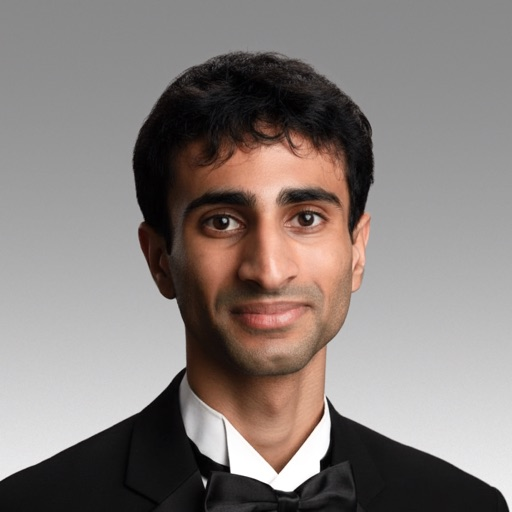
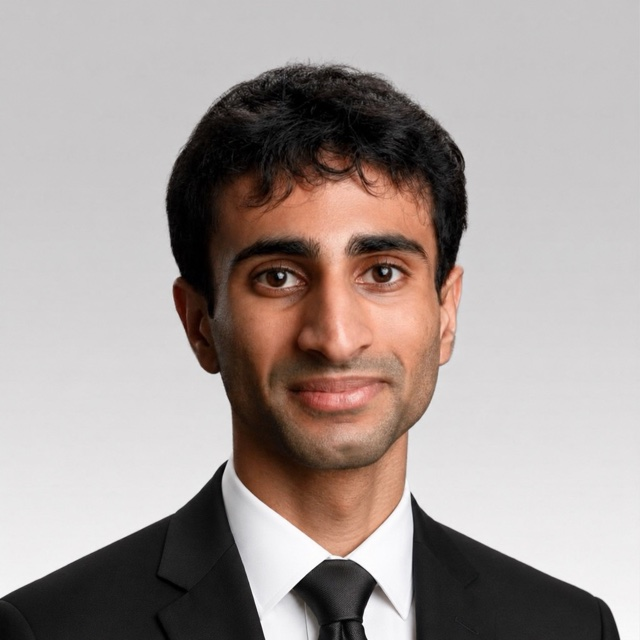
Steady the 3D mark, rebuild the phone menu, new headshot
- The 3D mark sits whole on its disc again, at the size the scene was
  made for, and the page adds no motion of its own to it. The flat mark
  and the scene are never on screen together: a scene that is ready
  quickly eases in on an empty stage, and a slow one gets the flat mark
  first, which leaves before the scene arrives. Cross-fading the two
  read as a double image, because the model is usually mid-turn.
- On touch screens the canvas takes no touches, so it cannot get in the
  way of scrolling.
- The phone menu is a full sheet: large words on a lilac field with one
  purple capsule beneath, in place of a dropdown card. The bar stays
  within reach on phones, and the page is held still while the sheet is
  open.
- The current page is marked with the accent and a small disc, not a
  grey capsule.
- Phones: centred hero, safe-area insets, no tap flash.
- Aniketh's headshot replaced with the new photo.

diff --git a/assets/css/app.css b/assets/css/app.css
@@ -55,6 +55,8 @@
     --r-tile:  26px;
 
     --edge: clamp(14px, 3vw, 36px);
+    --nav-pad: clamp(.6rem, 1.6vw, 1.1rem);
+    --nav-h: 56px;
     --max:  1280px;
     --gap:  clamp(12px, 1.6vw, 20px);
     --pad:  clamp(1.5rem, 5vw, 4.5rem);
@@ -210,15 +212,14 @@ main {
 }
 
 /* ---------- Nav ---------- */
-/* Plain, on the page. The current page takes the app's tab selection:
-   a soft capsule and the accent. */
-.nav { padding-block: clamp(.6rem, 1.6vw, 1.1rem); }
+/* Plain, on the page. The current page is marked the way the app marks
+   things: the accent, and a small disc. */
+.nav { padding-block: var(--nav-pad); }
 .nav-in {
-    position: relative;
     display: flex;
     align-items: center;
     gap: .5rem;
-    min-height: 56px;
+    min-height: var(--nav-h);
 }
 .word {
     display: flex;
@@ -231,28 +232,35 @@ main {
 }
 .word img { width: 34px; height: 34px; }
 
-.links { display: flex; align-items: center; gap: .75rem; }
-.links ul { display: flex; align-items: center; gap: 2px; }
+.links { display: flex; align-items: center; gap: 1.1rem; }
+.links ul { display: flex; align-items: center; gap: .25rem; }
 .links ul a {
+    position: relative;
     display: block;
-    padding: .6rem 1.1rem;
-    border-radius: 999px;
-    font-size: 1.03rem;
+    padding: .65rem .95rem;
+    border-radius: 12px;
+    font-size: 1.05rem;
     font-weight: 600;
-    letter-spacing: -0.012em;
-    transition: background-color .2s ease;
+    letter-spacing: -0.014em;
+    transition: color .2s ease;
 }
-.links ul a:hover { background: var(--raised); }
-.links ul a[aria-current="page"] {
-    background: var(--raised);
-    color: var(--accent);
+.links ul a:hover,
+.links ul a[aria-current="page"] { color: var(--accent); }
+.links ul a[aria-current="page"]::after {
+    content: "";
+    position: absolute;
+    left: 50%; bottom: .1rem;
+    width: 6px; height: 6px;
+    margin-left: -3px;
+    border-radius: 50%;
+    background: var(--accent);
 }
 
 .tog {
     display: none;
     align-content: center;
-    gap: 5px;
-    width: 46px; height: 46px;
+    gap: 6px;
+    width: 48px; height: 48px;
     flex: none;
     padding: 0 13px;
     border-radius: 50%;
@@ -261,14 +269,14 @@ main {
 .tog i {
     display: block;
     width: 100%;
-    height: 2px;
+    height: 2.5px;
     border-radius: 2px;
     background: currentColor;
-    transition: transform .28s ease, opacity .28s ease;
+    transition: transform .3s var(--ease), opacity .2s ease;
 }
-.tog[aria-expanded="true"] i:nth-child(1) { transform: translateY(7px) rotate(45deg); }
-.tog[aria-expanded="true"] i:nth-child(2) { opacity: 0; }
-.tog[aria-expanded="true"] i:nth-child(3) { transform: translateY(-7px) rotate(-45deg); }
+/* Two bars, which cross to close. */
+.tog[aria-expanded="true"] i:nth-child(1) { transform: translateY(4.25px) rotate(45deg); }
+.tog[aria-expanded="true"] i:nth-child(2) { transform: translateY(-4.25px) rotate(-45deg); }
 
 /* ---------- Field ---------- */
 /* A soft ground in one of the mark's colours, clipped to a generous
@@ -358,21 +366,24 @@ main {
     position: absolute;
     inset: 6%;
 }
-/* The scene moves on its own, following the pointer. Nothing is added to
-   that here: it only eases in once it has painted. */
+/* The scene moves on its own, turning to follow the pointer. Nothing is
+   added to that here: it only eases in once it has painted. */
 .mark spline-viewer {
     position: absolute;
     inset: 0;
     width: 100%; height: 100%;
     opacity: 0;
-    scale: .97;
+    scale: .96;
     transition: opacity .6s ease, scale .9s var(--ease);
 }
 .mark.live spline-viewer { opacity: 1; scale: 1; }
-/* The flat mark holds the place until then, and stays if the scene never
-   arrives. It is sized and placed to sit exactly where the scene's model
-   does, so one hands over to the other without a jump; it lingers a
-   moment as the scene fades in beneath it. */
+
+/* The flat mark is the stand-in: what shows without script, and what
+   the script brings in if the scene is slow or never arrives. The two
+   are never on screen together. The scene's model is usually mid-turn
+   when it appears, so a cross-fade between them reads as a double
+   image; instead the flat mark leaves first and the scene follows.
+   It is sized and placed to sit where the model rests. */
 .mark-still {
     position: absolute;
     z-index: 1;
@@ -380,9 +391,12 @@ main {
     width: 88%; height: auto;
     translate: -50% -50%;
     pointer-events: none;
-    transition: opacity .45s ease .25s;
+    transition: opacity .25s ease;
 }
-.mark.live .mark-still { opacity: 0; }
+html.js .mark-still { opacity: 0; }
+html.js .mark.fallback .mark-still { opacity: 1; transition-duration: .5s; }
+html.js .mark.live .mark-still { opacity: 0; transition-duration: .25s; }
+.mark.fallback.live spline-viewer { transition-delay: .25s; }
 /* On a touch screen the scene has no pointer to follow, and a canvas
    that takes touches would get in the way of scrolling the page. */
 @media (hover: none) {
@@ -810,6 +824,7 @@ html.js .up.seen .dot, html.js .up.seen .dot-soft { scale: 1; opacity: 1; }
     html.js .up { opacity: 1; translate: 0 0; }
     html.js .up .arc { stroke-dasharray: var(--p, 0) 100; }
     html.js .up .dot, html.js .up .dot-soft { scale: 1; opacity: 1; }
+    .links li { opacity: 1; translate: 0 0; }
     .press a:hover img, .press a:focus-visible img,
     .btn:active, .round:active { scale: 1; }
     .btn:hover svg, .link:hover svg { translate: 0 0; }
@@ -862,35 +877,100 @@ html.js .up.seen .dot, html.js .up.seen .dot-soft { scale: 1; opacity: 1; }
 
     .roster { grid-template-columns: 1fr; }
 
+    /* The bar stays within reach while the page scrolls. */
+    .nav {
+        position: sticky;
+        top: 0;
+        z-index: 40;
+        background: var(--canvas);
+    }
     .tog { display: grid; }
-    /* The menu drops down as a white card. */
+    .word, .tog { position: relative; z-index: 2; }
+
+    /* The menu is a sheet, composed as the app's are: a field of large
+       words, and one purple capsule beneath it. */
+    html.menu-open { overflow: hidden; }
     .links {
-        position: absolute;
-        z-index: 30;
-        top: calc(100% + 6px);
-        left: 0; right: 0;
+        position: fixed;
+        z-index: 1;
+        inset: 0;
         flex-direction: column;
         align-items: stretch;
-        gap: 0;
-        padding: 10px;
-        border-radius: var(--r-tile);
-        background: var(--surface);
-        border: 1px solid var(--divider);
-        box-shadow: var(--shadow-lift);
+        gap: var(--gap);
+        padding:
+            calc(var(--nav-h) + 2 * var(--nav-pad))
+            max(var(--edge), env(safe-area-inset-right))
+            max(var(--edge), env(safe-area-inset-bottom))
+            max(var(--edge), env(safe-area-inset-left));
+        background: var(--canvas);
         opacity: 0;
         visibility: hidden;
-        translate: 0 -6px;
-        transition: opacity .25s ease, translate .25s ease, visibility 0s .25s;
+        transition: opacity .25s ease, visibility 0s .25s;
     }
     .links.open {
         opacity: 1;
         visibility: visible;
-        translate: 0 0;
         transition-delay: 0s;
     }
-    .links ul { flex-direction: column; align-items: stretch; gap: 2px; }
-    .links ul a { padding: .9rem 1.1rem; font-size: 1.15rem; }
-    .links .btn { margin-top: 8px; min-height: 54px; font-size: 1.1rem; }
+    .links ul {
+        position: relative;
+        isolation: isolate;
+        overflow: hidden;
+        flex: 1;
+        flex-direction: column;
+        align-items: flex-start;
+        gap: 0;
+        padding: clamp(1.4rem, 7vw, 2.5rem);
+        border-radius: var(--r-field);
+        background: var(--lilac);
+    }
+    .links ul::before,
+    .links ul::after {
+        content: "";
+        position: absolute;
+        z-index: -1;
+        aspect-ratio: 1;
+        border-radius: 50%;
+        background: var(--lilac-deep);
+    }
+    .links ul::after {
+        height: min(78%, 520px);
+        right: 0; bottom: 0;
+        transform: translate(41%, 44%);
+    }
+    .links ul::before {
+        height: 34%;
+        right: 8%; top: 0;
+        transform: translate(50%, -58%);
+        opacity: .6;
+    }
+    .links ul a {
+        padding: .1em 0;
+        font-size: clamp(2.9rem, 15vw, 4.6rem);
+        font-weight: 700;
+        letter-spacing: -0.05em;
+        line-height: 1.08;
+    }
+    /* Here the disc sits after the word. */
+    .links ul a[aria-current="page"]::after {
+        position: static;
+        display: inline-block;
+        width: .2em; height: .2em;
+        margin-left: .16em;
+        vertical-align: .08em;
+    }
+    .links .btn { min-height: 62px; font-size: 1.2rem; }
+
+    /* The words rise in, one after another. */
+    .links li { opacity: 0; translate: 0 14px; }
+    .links.open li {
+        opacity: 1;
+        translate: 0 0;
+        transition: opacity .5s var(--ease), translate .5s var(--ease);
+    }
+    .links.open li:nth-child(1) { transition-delay: .06s; }
+    .links.open li:nth-child(2) { transition-delay: .12s; }
+    .links.open li:nth-child(3) { transition-delay: .18s; }
 
     .press { justify-content: center; }
     .press ul { gap: 0 clamp(.25rem, 2vw, 1rem); }

diff --git a/assets/js/app.js b/assets/js/app.js
@@ -8,13 +8,18 @@
     const tog = document.querySelector(".tog");
     const links = document.getElementById("links");
     if (tog && links) {
-        const shut = () => {
-            links.classList.remove("open");
-            tog.setAttribute("aria-expanded", "false");
-        };
-        tog.addEventListener("click", () => {
-            const open = links.classList.toggle("open");
+        // On a phone the menu is a full sheet, so the page behind it is
+        // held still while it is open.
+        const set = (open) => {
+            links.classList.toggle("open", open);
+            document.documentElement.classList.toggle("menu-open", open);
             tog.setAttribute("aria-expanded", String(open));
+            tog.setAttribute("aria-label", open ? "Close menu" : "Menu");
+        };
+        const shut = () => set(false);
+        tog.addEventListener("click", () => set(!links.classList.contains("open")));
+        links.addEventListener("click", (e) => {
+            if (e.target.closest("a")) shut();
         });
         document.addEventListener("click", (e) => {
             if (links.classList.contains("open") &&
@@ -56,7 +61,6 @@
             // Not every build fires that event, so also watch the canvas.
             // The viewer keeps it hidden until the scene has painted, so
             // "visible" is the signal; a canvas merely existing is not.
-            // If it never arrives, the still mark stays.
             let n = 0;
             const poll = setInterval(() => {
                 const cv = viewer.shadowRoot && viewer.shadowRoot.querySelector("canvas");
@@ -67,6 +71,14 @@
                     clearInterval(poll);
                 }
             }, 150);
+            // A scene that is ready quickly simply eases in on its empty
+            // stage. One that is slow, or never arrives, gets the flat
+            // mark in its place after a short wait.
+            setTimeout(() => {
+                if (!mark.classList.contains("live")) mark.classList.add("fallback");
+            }, 1600);
+        } else {
+            mark.classList.add("fallback");
         }
     }
 

diff --git a/contact/index.html b/contact/index.html
@@ -30,7 +30,7 @@
         <a class="btn btn-sm" href="/contact/" aria-current="page">Contact us</a>
       </nav>
       <button class="tog" aria-expanded="false" aria-controls="links" aria-label="Menu">
-        <i></i><i></i><i></i>
+        <i></i><i></i>
       </button>
     </div>
   </div>

diff --git a/about/index.html b/about/index.html
@@ -30,7 +30,7 @@
         <a class="btn btn-sm" href="/contact/">Contact us</a>
       </nav>
       <button class="tog" aria-expanded="false" aria-controls="links" aria-label="Menu">
-        <i></i><i></i><i></i>
+        <i></i><i></i>
       </button>
     </div>
   </div>

diff --git a/index.html b/index.html
@@ -37,7 +37,7 @@
         <a class="btn btn-sm" href="/contact/">Contact us</a>
       </nav>
       <button class="tog" aria-expanded="false" aria-controls="links" aria-label="Menu">
-        <i></i><i></i><i></i>
+        <i></i><i></i>
       </button>
     </div>
   </div>

diff --git a/privacy/index.html b/privacy/index.html
@@ -30,7 +30,7 @@
         <a class="btn btn-sm" href="/contact/">Contact us</a>
       </nav>
       <button class="tog" aria-expanded="false" aria-controls="links" aria-label="Menu">
-        <i></i><i></i><i></i>
+        <i></i><i></i>
       </button>
     </div>
   </div>

diff --git a/team/index.html b/team/index.html
@@ -30,7 +30,7 @@
         <a class="btn btn-sm" href="/contact/">Contact us</a>
       </nav>
       <button class="tog" aria-expanded="false" aria-controls="links" aria-label="Menu">
-        <i></i><i></i><i></i>
+        <i></i><i></i>
       </button>
     </div>
   </div>

diff --git a/terms/index.html b/terms/index.html
@@ -30,7 +30,7 @@
         <a class="btn btn-sm" href="/contact/">Contact us</a>
       </nav>
       <button class="tog" aria-expanded="false" aria-controls="links" aria-label="Menu">
-        <i></i><i></i><i></i>
+        <i></i><i></i>
       </button>
     </div>
   </div>
